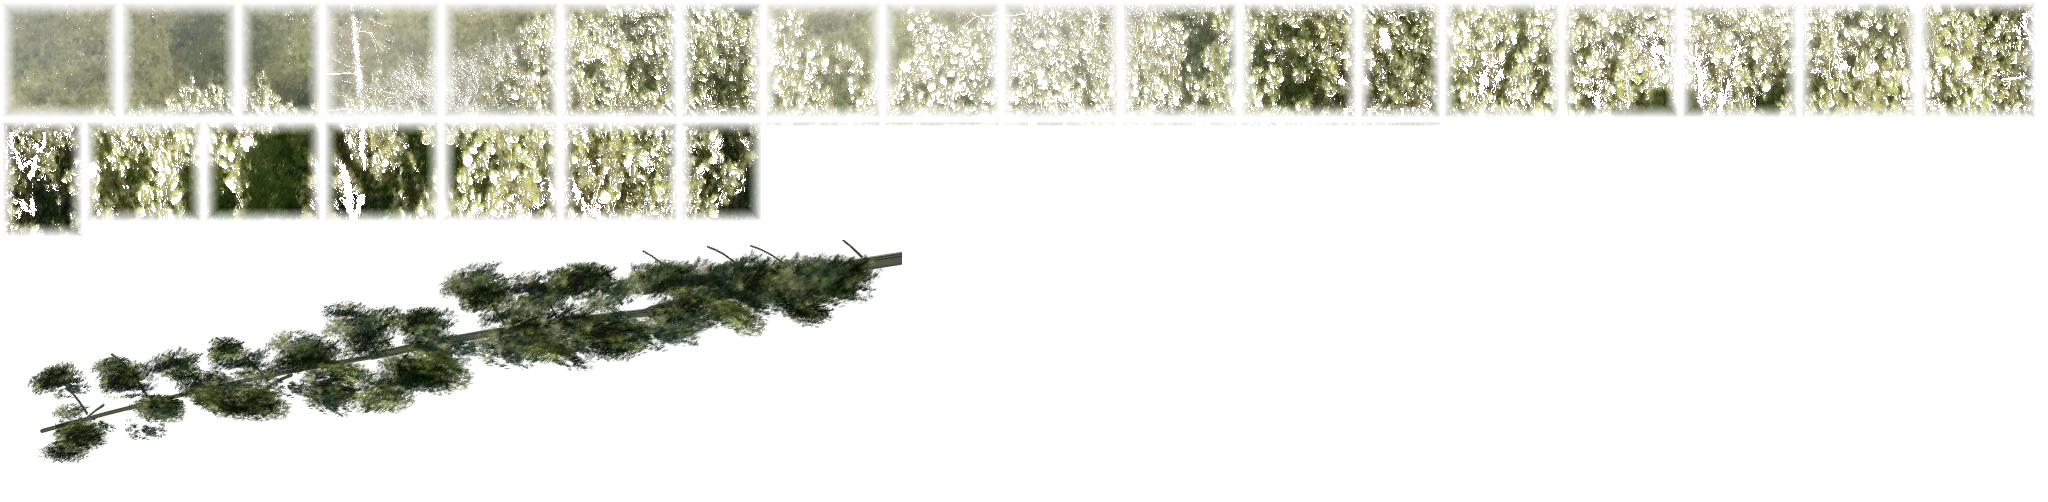
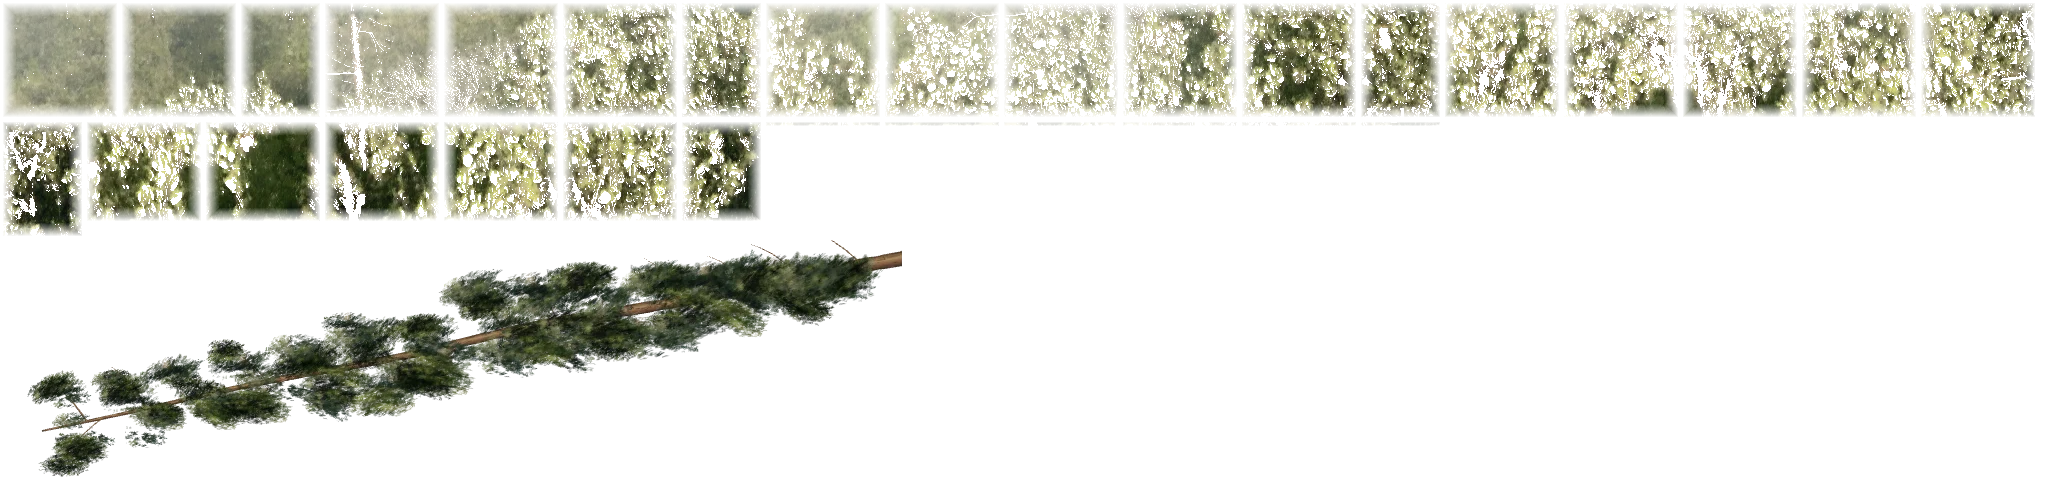
Give Yosemite branch tapered bark and scope browser checks

diff --git a/scene.js b/scene.js
@@ -331,15 +331,58 @@
       return tuft;
     });
     const twig=(x,y,endX,endY,width)=>{
-      for(let bristle=0;bristle<5;bristle++){
-        c.strokeStyle=bristle%2?'rgba(47,57,49,.94)':'rgba(94,101,79,.7)';
-        c.lineWidth=width*(1-bristle*.13);c.lineCap='round';
-        c.beginPath();c.moveTo(x,y+bristle*.55);c.quadraticCurveTo((x+endX)*.5,(y+endY)*.5-9,endX,endY);c.stroke();
+      const angle=Math.atan2(endY-y,endX-x),nx=-Math.sin(angle),ny=Math.cos(angle);
+      const point=t=>{
+        const radius=width*.5*(.12+.88*(1-t)**.85);
+        const bend=-18*t*(1-t)+Math.sin(t*19+x)*width*.12*Math.sin(t*Math.PI);
+        return {x:x+(endX-x)*t,y:y+(endY-y)*t+bend,r:radius};
+      };
+      c.save();c.beginPath();
+      for(const side of [-1,1])for(let i=0;i<=80;i++){
+        const t=side<0?i/80:1-i/80,p=point(t);
+        const edge=p.r*(1+Math.sin(t*173+x)*.09+Math.sin(t*61)*.05);
+        const px=p.x+nx*edge*side,py=p.y+ny*edge*side;
+        if(side<0&&i===0)c.moveTo(px,py);else c.lineTo(px,py);
       }
+      c.closePath();c.clip();
+      const tones=['#3e3027','#594331','#725039','#876044','#987450','#a68760','#92734e','#7d6041','#66503a'];
+      for(let band=0;band<tones.length;band++){
+        c.fillStyle=tones[band];c.beginPath();
+        for(const side of [-1,1])for(let i=0;i<=80;i++){
+          const p=point(side<0?i/80:1-i/80),across=-1+(band+(side<0?0:1))*2/tones.length;
+          const px=p.x+nx*p.r*across,py=p.y+ny*p.r*across;
+          if(side<0&&i===0)c.moveTo(px,py);else c.lineTo(px,py);
+        }
+        c.closePath();c.fill();
+      }
+      if(width>=3){
+        // Broken grain follows the taper, with short cross cracks between bark scales.
+        for(let i=0;i<240;i++){
+          const t=i/240,p=point(t),across=Math.sin(i*7.31+x)*.87;
+          const light=i%4===0;
+          c.strokeStyle=light?'rgba(204,176,132,.44)':'rgba(42,31,24,.54)';
+          c.lineWidth=light?.55:.45+(i%3)*.18;c.lineCap='round';
+          const length=.004+(i%7)*.0015,q=point(Math.min(1,t+length));
+          c.beginPath();c.moveTo(p.x+nx*p.r*across,p.y+ny*p.r*across);
+          c.lineTo(q.x+nx*q.r*across,q.y+ny*q.r*across);c.stroke();
+          if(i%5===0){
+            c.beginPath();c.moveTo(p.x+nx*p.r*across,p.y+ny*p.r*across);
+            c.lineTo(p.x+nx*p.r*(across+.36)+Math.cos(angle),p.y+ny*p.r*(across+.36)+Math.sin(angle));c.stroke();
+          }
+        }
+        for(const t of [.18,.47,.72]){
+          const p=point(t);c.save();c.translate(p.x,p.y);c.rotate(angle);
+          c.fillStyle='#4f3b2d';c.beginPath();c.ellipse(0,0,p.r*1.25,p.r*.42,0,0,Math.PI*2);c.fill();
+          c.strokeStyle='rgba(193,157,110,.65)';c.lineWidth=.65;
+          c.beginPath();c.ellipse(-.7,-.5,p.r*1.55,p.r*.6,0,.2,Math.PI*1.8);c.stroke();c.restore();
+        }
+      }
+      c.restore();
     };
-    twig(920,15,650,72,13);twig(650,72,370,116,8);twig(370,116,40,191,4);
+    twig(920,15,40,191,15);
     for(let i=0;i<27;i++){
-      const x=80+i*30+range(-9,9),y=185-x*.19+range(-7,7);
+      const x=80+i*30+range(-9,9),t=(920-x)/880;
+      const y=15+176*t-18*t*(1-t)+Math.sin(t*19+920)*1.8*Math.sin(t*Math.PI)+range(-1,1);
       const direction=i%2?1:-1,tipX=x-range(20,55),tipY=y+direction*range(18,46);
       twig(x,y,tipX,tipY,1.1+range(0,1.4));
       for(let spray=0;spray<5;spray++){
@@ -454,7 +497,7 @@
     const visible=foregroundGroups.filter(group=>group.canopy.some(patch=>Math.min(right,patch.x+patch.rect[2])-Math.max(left,patch.x)>=12));
     const results=await Promise.allSettled(visible.map(group=>{
       if(!foregroundLoads.has(group.atlas))foregroundLoads.set(group.atlas,(async()=>{
-        const url=new URL(group.atlas,foregroundManifest);url.searchParams.set('v','pine-1');
+        const url=new URL(group.atlas,foregroundManifest);url.searchParams.set('v','bark-1');
         const atlas=await loadImage(url.href);
         canopy.push(...group.canopy.map(record=>({...record,sprite:{image:atlas,rect:record.rect,width:record.rect[2],height:record.rect[3]}})));
         fit();
@@ -466,7 +509,7 @@
   }
   async function loadLiveAssets(){
     try{
-      const url=new URL('assets/yosemite-live-p4.json?v=pine-1',location.href);
+      const url=new URL('assets/yosemite-live-p4.json?v=bark-1',location.href);
       const response=await fetch(url,{priority:'low'});if(!response.ok)throw new Error('Live manifest unavailable');
       const data=await response.json();if(data.version!==2||data.skyline.length!==W)throw new Error('Invalid scene assets');
       const atlas=await loadImage(new URL(data.atlas,url).href);
@@ -482,7 +525,7 @@
   }
   async function startScene(){
     if(new URLSearchParams(location.search).has('bake')){await prepareAuthoring();return;}
-    try{showPainting(await loadImage('assets/yosemite-display-p4.webp?v=pine-1','high'));}
+    try{showPainting(await loadImage('assets/yosemite-display-p4.webp?v=bark-1','high'));}
     catch{try{showPainting(await loadImage('assets/yosemite-painting.webp?v=cliffs-2','high'));}catch{document.documentElement.dataset.sceneReady='error';return;}}
     // Yield a frame so the finished painting is visible before preparing live layers.
     requestAnimationFrame(()=>loadLiveAssets());

diff --git a/index.html b/index.html
@@ -7,7 +7,7 @@
   <meta name="description" content="Yosemite Valley, painted and alive. A study of granite, wind, clouds, and falling water.">
   <title>Yash Kalani</title>
   <script>try{if(sessionStorage.getItem('postcard-cloud-arrival')===location.pathname){document.documentElement.classList.add('cloud-arrival');window.cloudFallback=setTimeout(()=>document.documentElement.classList.remove('cloud-arrival'),3000)}}catch{}</script>
-  <link rel="preload" as="image" href="assets/yosemite-display-p4.webp?v=pine-1" fetchpriority="high">
+  <link rel="preload" as="image" href="assets/yosemite-display-p4.webp?v=bark-1" fetchpriority="high">
   <link rel="stylesheet" href="style.css">
   <link rel="stylesheet" href="cloud-transition.css">
   <script src="scene.js" defer></script>

diff --git a/LANDSCAPE_PLAYBOOK.md b/LANDSCAPE_PLAYBOOK.md
@@ -314,7 +314,7 @@ We observed median browser frame intervals near 16.7 ms after optimizing. This m
 
 The built-in browser host was unavailable in the original session. Playwright worked and is required by repository instructions for browser automation, visual previews, and browser testing.
 
-Test the new park at desktop, portrait mobile, and a wide screen. Inspect screenshots yourself; do not rely exclusively on numeric assertions. Also inspect a short time sequence or video, because a beautiful still can hide incoherent motion.
+Scope browser checks to the change, as required by AGENTS.md. For a branch-only visual change, check Yosemite on desktop and portrait mobile with a short motion comparison; do not run the full 24-view suite. Use the broader suite for shared rendering, navigation, layout, or changes across multiple scenes. Test a new park at desktop, portrait mobile, and a wide screen. Inspect screenshots yourself; do not rely exclusively on numeric assertions. Also inspect a short time sequence or video, because a beautiful still can hide incoherent motion.
 
 Minimum checks:
 
@@ -395,7 +395,7 @@ Local baking: `npm run bake:landscapes` regenerates all four new caches; append 
 
 The user replaced Writing with the supplied Banff portrait and About with the supplied sandstone-arch/kayak photo. The About source depicts Pictured Rocks rather than Sleeping Bear; its legacy asset directory and module ID remain `sleeping-bear` for compatibility. The sixth destination is `tech-blog`, using the supplied Beaumont Tower photograph. Preserve the user originals and scene-specific canonical reference copies; never overwrite them during baking.
 
-The user withdrew the proposed extra noise and upper Yosemite branch. Preserve Yosemite's existing artwork and grain strength. The latest foreground direction adds richer cool green shadows and warm sunlit tips to separate the near trees from the distant forest; retain this depth-feathered grade when rebaking Home. Do not apply it to the other scenes.
+The upper Yosemite branch was restored and is part of Home. Preserve the existing landscape artwork and grain strength; branch refinements should retain its framing, pine needles, and wind motion. The latest foreground direction adds richer cool green shadows and warm sunlit tips to separate the near trees from the distant forest; retain this depth-feathered grade when rebaking Home. Do not apply it to the other scenes.
 
 New scenes use `liveVersion:2`, `painting-v2.webp`, `fallback-v2.webp`, and matching `live-v2.json`/`live-v2.webp`. Existing Volcanoes and Great Sand Dunes retain their original v1 packs; Home retains its p2 atlas set. `sourceY` is an optional vertical crop anchor for local authoring, used by Banff to keep mountain walls, lake, and canoe foreground in one coherent full-bleed crop. No stretching or invented side-fill is used.
 

diff --git a/AGENTS.md b/AGENTS.md
@@ -7,3 +7,6 @@ type: instructions
 After changing any files in this repository, run the relevant checks, commit the changes, and deploy to Vercel production by default. Do not ask for confirmation unless the user explicitly requests a different workflow.
 
 Use Playwright for browser automation, visual previews, and browser testing.
+
+
+Scope browser tests to the change. Use Playwright only for the affected pages and viewport sizes needed to verify it, and inspect the resulting screenshots. For a branch-only visual change, check Yosemite on desktop and mobile, including a short motion comparison; do not run the full 24-view landscape suite. Run the broader suite when shared rendering, navigation, layout, or multiple landscapes change. For this focused check, set `SCENE_ROUTES=home` and `SCENE_WIDTHS=1600,390`, then run `npm run check:browser`. After deployment, verify the affected production page with Playwright.

diff --git a/landscapes/yosemite.md b/landscapes/yosemite.md
@@ -58,3 +58,5 @@ The upper bough samples pigment from the existing painted pine and its foregroun
 Use `node scripts/bake-assets.cjs --foreground-only` to regenerate these layers from the existing terrain painting without repainting the granite. The normal bake command still rebuilds the complete painting. Verify desktop, portrait, wide crops, motion, and bird occupancy after changing branch geometry.
 
 Background foliage receives a cool transparent glaze that fades out toward the near trees. Bake it into the display and canopy layers; retain the ungraded terrain cache so repeated bakes cannot compound the darkening. Preserve the warm foreground highlights and the granite and sky values.
+
+The upper limb uses a continuous irregular taper, shaded bark grain, small knots, and attached tapered twigs. For wood-only refinements, follow the focused desktop/mobile Playwright workflow in AGENTS.md.
